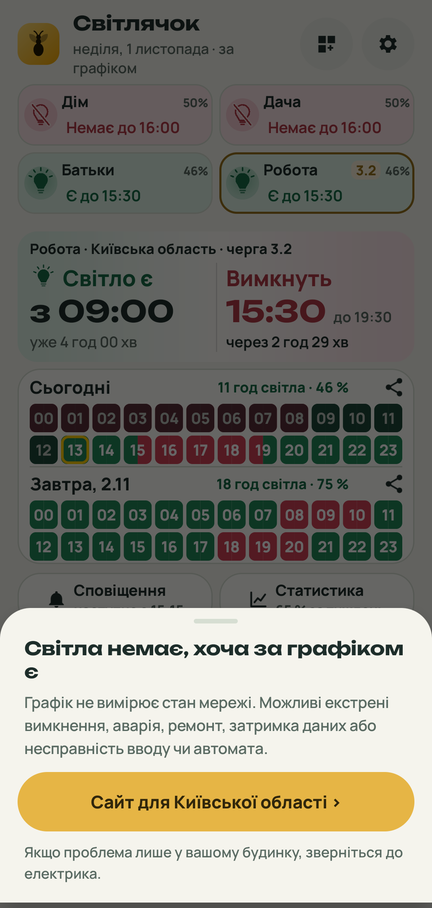
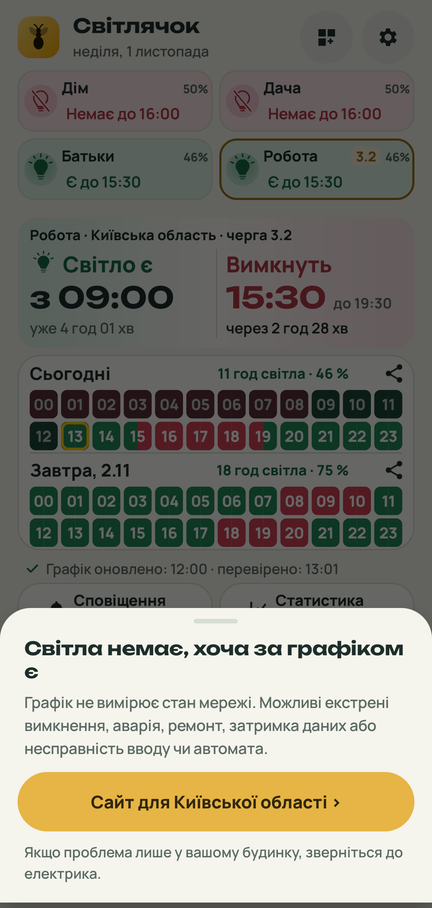
Describe 1.9.0: the draft of tomorrow, tomorrow's revisions, compact sharing; refresh screenshots

diff --git a/README.md b/README.md
@@ -82,12 +82,14 @@ Android-застосунок із графіком погодинних відк
 
 - До 4 місць з різними областями чи чергами: дім, дача, батьки, робота. Одну чергу тієї самої області можна додати лише раз.
 - Кожне місце — компактна плитка зі станом і відсотком очікуваного світла сьогодні; натисніть, щоб побачити графік.
+- Під час додавання місця після вибору черги одразу видно її графік на сьогодні й завтра.
+- Нове місце отримує ті самі сповіщення, що й вибране; їх можна змінити дзвіночком.
 
 ### 📤 Поділитися
 
-- Кнопка в рядку «Сьогодні» і в рядку «Завтра». Графік дня надсилається
-  картинкою у Viber, Telegram чи куди завгодно, з посиланням, де завантажити застосунок.
-- На картинці — черга, область і дата, без назви вашого місця.
+- Кнопка в рядку «Сьогодні» і в рядку «Завтра». Графік дня надсилається компактною
+  картинкою у Viber, Telegram чи куди завгодно.
+- На картинці — черга, область, дата, години вимкнень і адреса, де завантажити застосунок, без назви вашого місця.
 
 ### 🧩 Віджети
 
@@ -120,6 +122,8 @@ Android-застосунок із графіком погодинних відк
 - Про нову версію повідомляє картка на головному екрані: «Оновити», «Що нового» і
   «Пропустити цю версію» — тоді картка з'явиться лише для наступної. Окремих сповіщень про
   оновлення немає.
+- Внизу головного екрана видно версію застосунку. Якщо є новіша, навіть пропущена, рядок «є нова …,
+  оновити ›» повертає картку оновлення.
 - «Оновити» завантажує нову версію в застосунок і відразу відкриває встановлення Android —
   без браузера й пошуку файлу.
 
@@ -136,7 +140,7 @@ Android-застосунок із графіком погодинних відк
 - **Кольори**: зелений — світло є, червоний — світла немає, бурштиновий — можливе вимкнення,
   сірий — графіка ще немає. Лампочка дублює стан формою: з променями, перекреслена, наполовину
   залита, контур — тож його видно й без розрізнення кольорів.
-- **Картка стану** має дві половини, як великий віджет: зліва що зараз, відколи й скільки триває; справа наступна подія, її час і скільки до неї лишилось. Якщо вистачає місця, також видно кінець наступного інтервалу. Перед зміною права половина заливається кольором події.
+- **Картка стану** має дві половини, як великий віджет: зліва що зараз, відколи й скільки триває; справа наступна подія, її час і скільки до неї лишилось. Кінець наступного інтервалу видно завжди: біля часу або, на вузькому екрані, під відліком. Перед зміною права половина заливається кольором події.
 - **Початок стану** шукається в збережених графіках попередніх днів. За відсутності попередньої історії відлік починається від першого відомого часу, наприклад «з 00:00».
 - **Вибране місце** позначене контуром і номером черги на плитці. У картці стану вгорі його назва, область і черга: «Дім · Київська область · черга 3.1».
 - **Скора зміна** видна на плитці будь-якого місця: час стає на заливку кольору події за стільки хвилин, скільки вибрано у сповіщеннях місця, інакше за 15 хвилин.
@@ -164,13 +168,15 @@ Android-застосунок із графіком погодинних відк
   перенесення або скасування події прибирає старе нагадування, уточнення інтервалу оновлює його без
   повторного звуку. Нагадування у момент зміни лишається до кінця відомого вимкнення або на годину після увімкнення.
 - Додатково, якщо потрібно, вмикаються:
-  - **Графік на завтра** — щойно обленерго його опублікує, з підсумком годин світла;
-  - **Зміни графіка** — якщо обленерго змінило години на сьогодні або завтра;
+  - **Графік на завтра** — щойно обленерго його опублікує, з підсумком годин світла, і після кожного уточнення до опівночі;
+  - **Зміни графіка** — якщо обленерго змінило години на сьогодні;
   - **Тиша вночі** — з 23:00 до 07:00 сповіщення приходять без звуку (одна для всіх місць).
 - Кнопка «Надіслати пробне сповіщення» показує, як виглядають обидва сповіщення.
 
-Повідомлення про графік відрізняє новий день від зміни вже відомих годин: «Графік на завтра» або
-«Зміни на сьогодні». Якщо змінилися обидва дні — «Графік оновлено» з окремими підсумками сьогодні
+Повідомлення про графік відрізняє новий день від зміни вже відомих годин: «Графік на завтра»,
+«Графік на завтра оновлено» або «Зміни на сьогодні». Чернетку завтрашнього дня, яку обленерго Київської
+області спершу публікує лише з нічними годинами, застосунок не вважає графіком і не надсилає про неї
+повідомлення. Якщо змінилися обидва дні — «Графік оновлено» з окремими підсумками сьогодні
 й завтра. Дотик відкриває потрібне місце. Неповний графік позначений словами, а за можливих вимкнень
 показано мінімальну кількість годин світла.
 

diff --git a/CHANGELOG.md b/CHANGELOG.md
@@ -1,5 +1,26 @@
 # Зміни
 
+## 1.9.0
+
+### ✨ Додано
+
+- **У формі місця видно графік вибраної черги на сьогодні й завтра.** Після вибору черги одразу показано ту саму сітку, що й на головному екрані.
+- **Внизу головного екрана видно версію застосунку.** Якщо вийшла новіша, навіть уже пропущена, натискання на рядок «є нова …, оновити ›» повертає картку оновлення.
+
+### 🔧 Змінено
+
+- **Сповіщення «Графік на завтра» приходить і про уточнення завтрашнього графіка.** Окремий перемикач «Зміни графіка» тепер стосується лише змін на сьогодні.
+- **Картинка для поширення вдвічі менша.** Черга й область в одному рядку, години вимкнень в одному ряду, без легенди. До повідомлення більше не додається окремий текст: адреса застосунку є на картинці.
+- **Рядок «Графік оновлено · перевірено» розташовано одразу під графіком.** У шапці лишилася тільки дата.
+- **Нове місце отримує ті самі сповіщення, що й вибране.** Їх можна змінити дзвіночком.
+
+### 🐛 Виправлено
+
+- **Чернетка графіка на завтра більше не показується як графік.** Для Київської області обленерго спершу публікує «завтра» лише з нічними годинами, а решту доби позначає як «світло є». Застосунок показував 24 години світла й надсилав про це сповіщення. Тепер такий день вважається ще не опублікованим, доки не з'явиться повний графік. Якщо джерело три години нічого не змінює, показується те, що опубліковано.
+- **Кінець наступного вікна видно на головній картці завжди.** Раніше «до 19:00» зникало, коли не вміщувалося біля великого годинника.
+- **Сповіщення про зміну графіка не губляться під час редагування місць.** Якщо графік області оновився саме тоді, інші місця цієї області отримують сповіщення.
+- **У статистиці числа розташовано всередині своїх стовпчиків.** Години зі світлом завжди внизу зеленого, без світла — вгорі червоного; нуль не показується.
+
 ## 1.8.0 — 2026-11-06
 
 ### ✨ Додано
